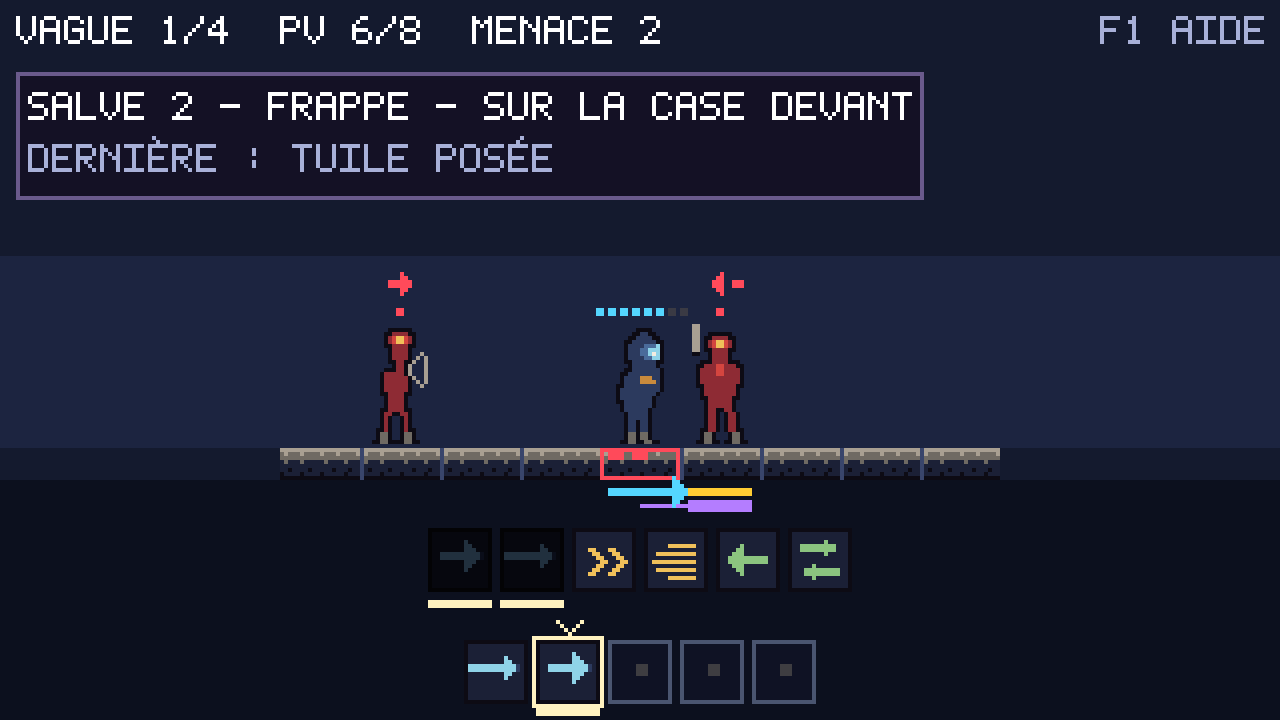
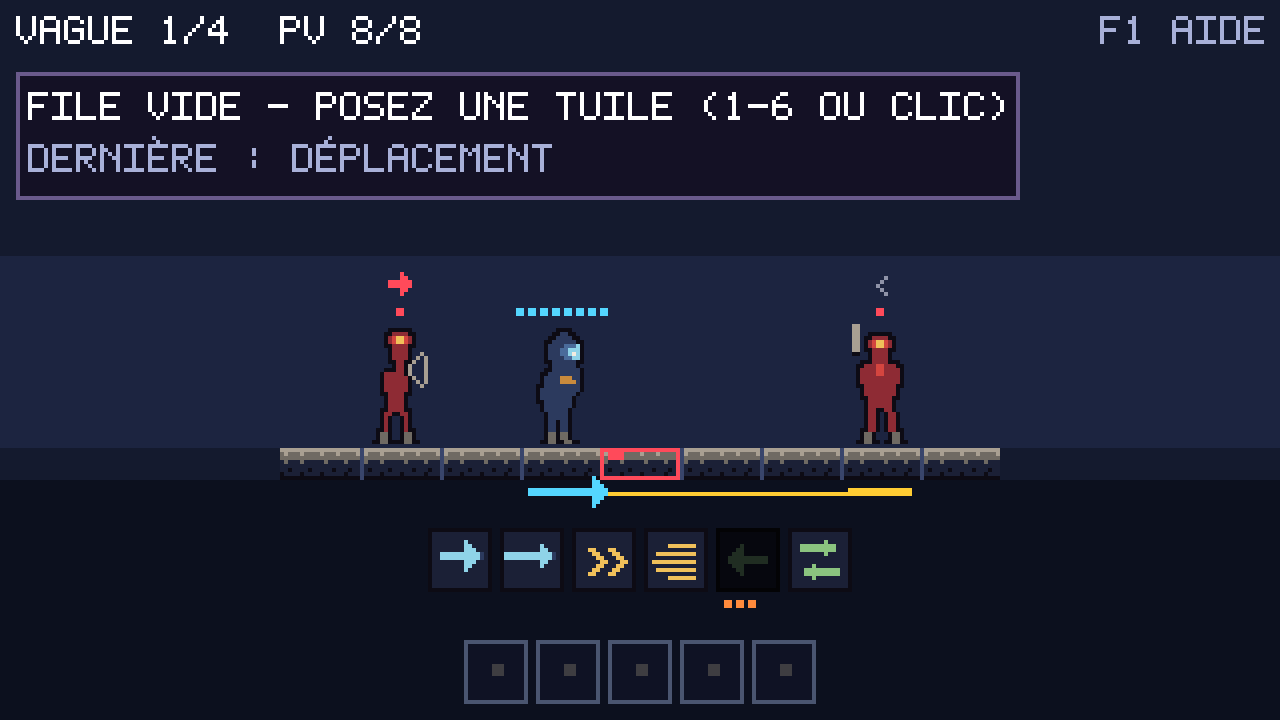
Le scenario de capture est teste, et il etait faux
Il vivait dans ArenaScene, donc derriere un contexte graphique, donc hors de
portee de tout test. Il a regresse exactement la : au jalon d'equilibrage, le
scenario ecrit pour l'ancienne economie s'est mis a mourir en vague 1 au tour
7, sans qu'une seule tuile ne se pose a cote d'une autre. Douze images
livrees pour un jalon intitule "la file a enfin une economie", ou l'on ne
voyait jamais de salve. Aucune assertion n'a bronche, parce qu'il n'y en
avait aucune.

Le scenario ne touche qu'a l'Arena : rien n'obligeait a le garder derriere
GL. Il est dans CaptureScript, et cinq assertions verifient qu'il montre ce
qu'il pretend montrer - il charge, il lache une salve pour un tour, il fait
basculer une vague, il ne meurt pas, et le survol scenarise couvre toutes les
images.

Elles ont refuse DEUX versions avant celle qui passe :
- celle que je venais d'ecrire mourait encore en vague 1 au tour 9 ;
- celle d'apres chargeait trois tuiles en vague 2 et finissait a 1 PV sur 8.

La ligne retenue vient de la recherche du garde-fou de jouabilite, pas de ma
main : elle franchit la premiere vague a pleine sante en quatre tours.

Le seuil "la file monte a au moins N" est fixe a DEUX, et c'est un releve et
non un objectif : la troisieme tuile coute quatre points de vie de plus. Meme
mesure que la review - aucune ligne gagnante ne remplit jamais la file. La
question reste ouverte au tableau de bord.

432 tests verts.

diff --git a/progress.html b/progress.html
@@ -238,8 +238,9 @@
 <h2>Planches-contact</h2>
 
 <figure class="sheet">
-  <img src="captures/m10/starfall-1280x720-frame03.png" alt="Starfall M10, une salve de trois chargee">
-  <figcaption><b>M10 &mdash; une salve de trois charg&eacute;e, et son prix.</b> Trois tuiles dans la file, trois tours d&eacute;pens&eacute;s &agrave; les poser &mdash; et <code>PV 4/8</code> : la moiti&eacute; de la barre de vie y est pass&eacute;e, pendant que le sabreur arrivait au contact. C&rsquo;est toute la tension de la nouvelle &eacute;conomie en une image. La premi&egrave;re planche livr&eacute;e ne montrait rien de tout cela : douze images o&ugrave; la file ne d&eacute;passait jamais une tuile et o&ugrave; la Vagabonde mourait au tour 7, pour un jalon intitul&eacute; « la file a enfin une &eacute;conomie ». La ligne d&rsquo;annonce dit <code>SALVE 3</code> et d&eacute;crit la <i>premi&egrave;re</i> tuile seulement &mdash; ce que la deuxi&egrave;me trouvera devant elle d&eacute;pend de ce que la premi&egrave;re aura fait, et deviner est ce que ce projet interdit depuis M6.</figcaption>
+  <img src="captures/m10/starfall-1280x720-frame10.png" alt="Starfall M10, une salve de trois chargee">
+  <figcaption><b>M10 &mdash; la nouvelle &eacute;conomie, en une image.</b> <code>VAGUE 2/4</code> : la premi&egrave;re est tomb&eacute;e. <code>PV 4/8</code> : la moiti&eacute; de la barre y est pass&eacute;e, pendant le chargement. <code>MENACE 3</code> : trois coups tomberont sur la case du h&eacute;ros au prochain tour. Et dans la file, une <code>SALVE 2</code> pr&ecirc;te &agrave; partir pour un seul tour.
+  <br><br>La planche pr&eacute;c&eacute;dente ne montrait rien de tout cela : douze images o&ugrave; la file ne d&eacute;passait jamais une tuile et o&ugrave; la Vagabonde mourait au tour 7, pour un jalon intitul&eacute; « la file a enfin une &eacute;conomie ». Le sc&eacute;nario de capture a donc quitt&eacute; la sc&egrave;ne &mdash; il ne touchait qu&rsquo;&agrave; l&rsquo;ar&egrave;ne, rien ne l&rsquo;obligeait &agrave; vivre derri&egrave;re un contexte graphique &mdash; et <b>cinq assertions</b> v&eacute;rifient d&eacute;sormais qu&rsquo;il charge, qu&rsquo;il l&acirc;che une salve, qu&rsquo;il fait basculer une vague et qu&rsquo;il ne meurt pas. Elles ont refus&eacute; deux versions avant celle-ci.</figcaption>
 </figure>
 
 <figure class="sheet">

diff --git a/core/src/test/java/com/starfall/scene/CaptureScriptTest.java b/core/src/test/java/com/starfall/scene/CaptureScriptTest.java
@@ -1,0 +1,156 @@
+package com.starfall.scene;
+
+import static org.junit.jupiter.api.Assertions.assertTrue;
+
+import com.starfall.game.Arena;
+import com.starfall.game.ArenaSetup;
+
+import org.junit.jupiter.api.DisplayName;
+import org.junit.jupiter.api.Test;
+
+/**
+ * Les planches-contact doivent montrer ce qu'elles légendent.
+ *
+ * <h2>Pourquoi ce test existe</h2>
+ *
+ * <p>C'est la règle que le projet s'est donnée après le jalon de la résolution du combat, et elle a
+ * été enfreinte deux fois depuis — parce que rien ne la vérifiait.
+ *
+ * <p>La première fois, les légendes portaient encore le texte de deux jalons plus tôt : le commit
+ * n'avait échangé que les chemins d'images. La seconde, plus grave, au jalon d'équilibrage : le
+ * scénario écrit pour l'ancienne économie s'est mis à mourir en vague 1 au tour 7, sans qu'une seule
+ * tuile ne se pose à côté d'une autre. <b>Douze images livrées pour un jalon intitulé « la file a
+ * enfin une économie », où l'on ne voyait jamais de salve.</b> Aucune assertion n'a bronché, parce
+ * qu'il n'y en avait aucune.
+ *
+ * <p>Ce test ne juge pas de l'esthétique — il vérifie que le scénario <b>atteint les états qu'il
+ * prétend montrer</b>. Il n'a besoin d'aucun contexte graphique : le scénario ne touche qu'à
+ * l'arène, ce qui est précisément la raison pour laquelle il a pu quitter la scène.
+ */
+class CaptureScriptTest {
+
+    /** La largeur par défaut du mode capture, celle des planches livrées. */
+    private static final int GRID = 9;
+
+    private static Arena after(int actions) {
+        Arena arena = ArenaSetup.trainingArena(GRID);
+        CaptureScript.replayInto(arena, actions);
+        return arena;
+    }
+
+    /**
+     * Le scénario doit <b>charger</b> : une file qui ne dépasse jamais une tuile ne montre rien de
+     * l'économie du jeu.
+     *
+     * <h2>Pourquoi le seuil est à deux et non à cinq</h2>
+     *
+     * <p>Il devrait être à cinq — c'est la capacité de la file, et le jalon d'équilibrage s'appelle
+     * « file de 5 ». Il est à deux parce que c'est ce que le jeu <b>permet</b> aujourd'hui, et le
+     * constater ici vaut mieux que l'espérer : la version à trois tuiles de ce scénario finissait à
+     * <b>un point de vie sur huit</b>, et l'assertion de survie l'a refusée.
+     *
+     * <p>C'est la même mesure que la review du jalon a faite de son côté : sur douze configurations,
+     * six meurent avant la quatrième tuile, et aucune ligne gagnante ne remplit jamais la file. Le
+     * seuil de ce test est donc un <b>relevé</b>, pas un objectif. Il est consigné comme question
+     * ouverte au tableau de bord — rendre le chargement survivable est une décision de game design,
+     * et le jour où elle sera prise, ce nombre devra monter.
+     */
+    @Test
+    @DisplayName("Le scénario charge une file de plusieurs tuiles")
+    void theScriptLoadsAQueueOfSeveralTiles() {
+        int deepest = 0;
+        for (int step = 0; step <= CaptureScript.ACTIONS.size(); step++) {
+            deepest = Math.max(deepest, after(step).queue().size());
+        }
+
+        assertTrue(deepest >= 2,
+                "la file du scenario ne depasse jamais " + deepest + " tuile(s) : les planches ne"
+                        + " montreraient pas ce que la file apporte");
+    }
+
+    /**
+     * Et il doit <b>lâcher</b> : une salve de plusieurs tuiles pour un seul tour est la promesse
+     * centrale du jeu, et c'est ce que les planches doivent donner à voir.
+     */
+    @Test
+    @DisplayName("Le scénario lance une salve de plusieurs tuiles pour un seul tour")
+    void theScriptFiresAMultiTileVolley() {
+        boolean found = false;
+        for (int step = 0; step < CaptureScript.ACTIONS.size(); step++) {
+            Arena before = after(step);
+            int queued = before.queue().size();
+            int turns = before.turnsTaken();
+            if (queued < 2) {
+                continue;
+            }
+            Arena andAfter = after(step + 1);
+            if (andAfter.queue().isEmpty() && andAfter.turnsTaken() <= turns + 1) {
+                found = true;
+                break;
+            }
+        }
+
+        assertTrue(found, "aucune salve de plusieurs tuiles dans le scenario : les planches ne"
+                + " montreraient pas le decalage qui fait tout le jeu");
+    }
+
+    /**
+     * Le scénario ne doit pas se terminer par une défaite.
+     *
+     * <p>C'est exactement ce qui s'est produit au jalon d'équilibrage : les dernières images
+     * affichaient <code>PARTIE PERDUE</code> et <code>VAGUE 1/4</code>. Ce n'est pas qu'une question
+     * de fierté — une planche qui montre une défaite précoce dit au relecteur que le jeu est
+     * injouable, ce qui était faux.
+     */
+    @Test
+    @DisplayName("Le scénario ne meurt pas avant la fin")
+    void theScriptDoesNotDieBeforeTheEnd() {
+        Arena finished = after(CaptureScript.ACTIONS.size());
+
+        assertTrue(!finished.isDefeat(),
+                "le scenario de capture meurt au tour " + finished.turnsTaken()
+                        + " en vague " + finished.wave()
+                        + " : les planches livrees montreraient une defaite");
+        assertTrue(finished.hero().health() >= 2,
+                "le scenario finit a " + finished.hero().health() + " point(s) de vie : trop juste"
+                        + " pour que les planches montrent un jeu qui se joue");
+    }
+
+    /**
+     * Et il doit faire basculer une vague : c'est la seule façon de montrer sur une planche que le
+     * combat progresse plutôt que de tourner en rond.
+     */
+    @Test
+    @DisplayName("Le scénario fait basculer au moins une vague")
+    void theScriptFlipsAtLeastOneWave() {
+        Arena finished = after(CaptureScript.ACTIONS.size());
+
+        assertTrue(finished.wave() >= 2,
+                "le scenario reste en vague " + finished.wave()
+                        + " : aucune planche ne montrerait l'enchainement des vagues");
+    }
+
+    /**
+     * Les tableaux de survol doivent couvrir toutes les images qu'on capture, sinon les dernières
+     * planches perdent silencieusement leurs infobulles et leurs repères de portée.
+     */
+    @Test
+    @DisplayName("Le survol scénarisé couvre tout le scénario")
+    void theScriptedHoverCoversTheWholeScript() {
+        int frames = CaptureScript.ACTIONS.size() + 1;
+
+        assertTrue(CaptureScript.HOVERED_RACK_SLOT.length >= frames - 1,
+                "le survol du ratelier s'arrete a l'image "
+                        + CaptureScript.HOVERED_RACK_SLOT.length + " pour " + frames + " images");
+        assertTrue(CaptureScript.HOVERED_CELL.length >= frames,
+                "le survol des cases s'arrete a l'image "
+                        + CaptureScript.HOVERED_CELL.length + " pour " + frames + " images");
+
+        for (int slot : CaptureScript.HOVERED_RACK_SLOT) {
+            assertTrue(slot >= -1 && slot < 6, "emplacement de ratelier hors bornes : " + slot);
+        }
+        for (int cell : CaptureScript.HOVERED_CELL) {
+            assertTrue(cell >= -1 && cell < GRID, "case survolee hors grille : " + cell);
+        }
+    }
+}

diff --git a/core/src/main/java/com/starfall/scene/CaptureScript.java b/core/src/main/java/com/starfall/scene/CaptureScript.java
@@ -1,0 +1,116 @@
+package com.starfall.scene;
+
+import com.starfall.game.ActionResult;
+import com.starfall.game.Arena;
+import com.starfall.game.Direction;
+import com.starfall.game.Tile;
+
+import java.util.List;
+import java.util.function.Function;
+
+/**
+ * La partie que joue le mode capture, une action par image.
+ *
+ * <h2>Pourquoi elle a quitté la scène</h2>
+ *
+ * <p>Les entrées sont coupées en capture : sans scénario, les images d'une série seraient toutes
+ * identiques. Rejouer une courte partie les rend différentes <em>et</em> utiles — les planches
+ * montrent le jeu à l'œuvre au lieu de trois copies de la position de départ.
+ *
+ * <p>Elle vivait dans {@code ArenaScene}, donc derrière un contexte graphique, donc hors de portée
+ * de tout test. Et elle a régressé exactement là : au jalon d'équilibrage, le scénario écrit pour
+ * l'ancienne économie s'est mis à mourir en vague 1 au tour 7, sans qu'une seule tuile ne se pose à
+ * côté d'une autre. Douze images livrées pour un jalon intitulé « la file a enfin une économie », où
+ * l'on ne voyait jamais de salve. <b>Aucune assertion n'a bronché</b>, parce qu'il n'y en avait
+ * aucune à broncher.
+ *
+ * <p>Le scénario ne touche qu'à l'{@link Arena} : rien n'obligeait à le garder derrière GL. Il est
+ * donc ici, et {@code CaptureScriptTest} vérifie qu'il montre encore ce qu'il prétend montrer.
+ */
+public final class CaptureScript {
+
+    private CaptureScript() {
+    }
+
+    /**
+     * Les gestes joués, dans l'ordre.
+     *
+     * <p>Ce qu'ils doivent montrer, et ce que le test vérifie : une file <b>chargée sous le feu</b>
+     * — chaque pose coûte un tour et les ennemis se rapprochent pendant ce temps — puis une
+     * <b>salve</b> qui fait tomber plusieurs effets d'un coup, puis une <b>vague qui bascule</b>.
+     * C'est toute l'économie du jeu en onze gestes.
+     */
+    public static final List<Function<Arena, ActionResult>> ACTIONS = List.of(
+            // Une ouverture qui tient : elle franchit la première vague à pleine santé en quatre
+            // tours. Elle a été trouvée par la recherche du garde-fou de jouabilité, pas écrite à
+            // la main — la version manuelle mourait au tour 9 sans avoir fait basculer une vague,
+            // et c'est le test de ce fichier qui l'a dit.
+            a -> a.queueTile(Tile.SIDESTEP),  // Free-Play : se charge sans rien coûter
+            a -> a.unleash(),                 // salve entièrement Free-Play : gratuite aussi
+            a -> a.queueTile(Tile.THRUST),    // le premier tour dépensé, et le premier encaissé
+            a -> a.queueTile(Tile.PIVOT),
+            a -> a.unleash(),                 // deux effets, un seul tour
+            a -> a.queueTile(Tile.STRIKE),
+            a -> a.queueTile(Tile.PIVOT),
+            a -> a.unleash(),                 // la vague bascule quand le terrain se vide
+            // Puis on charge sous le feu de la vague suivante, et on lâche : c'est l'image que le
+            // jalon d'équilibrage devait montrer et ne montrait pas. Deux tuiles et pas trois —
+            // la troisième coûtait quatre points de vie de plus, et le test de ce fichier a refusé
+            // une planche qui finissait à un point de vie sur huit.
+            a -> a.queueTile(Tile.THRUST),
+            a -> a.queueTile(Tile.PUSH),
+            a -> a.unleash());
+
+    /**
+     * Tuile du râtelier survolée à chaque image, ou {@code -1}.
+     *
+     * <p>L'ordre du râtelier est celui de {@code ArenaSetup} : frappe, estoc, poussée, élan, pas de
+     * côté, volte-face. Le survol est scénarisé parce que sans lui, ni infobulle ni repère de portée
+     * n'apparaîtrait sur <em>aucune</em> planche — et une planche qui ne montre pas ce qu'elle
+     * légende vaut moins que pas de planche.
+     */
+    public static final int[] HOVERED_RACK_SLOT = {
+            -1,  // image 0 : l'aide, telle qu'un joueur la découvre
+            1,   // l'estoc et sa portée 2
+            -1,  // rien de survolé : le préavis résolu du sommet
+            2,   // la poussée
+            3,   // l'élan, dont la portée dépend du terrain
+            -1,
+            4,   // le pas de côté, tuile Free-Play
+            -1,
+            -1,
+            -1,  // le préavis résolu d'une salve
+            5,   // la volte-face, qui ne vise aucune case
+    };
+
+    /**
+     * Case du plateau survolée à chaque image, ou {@code -1}.
+     *
+     * <p>Elle sert à montrer l'infobulle d'ennemi, qui existe pour la raison exacte qui a fait
+     * écrire celles des tuiles : la portée de l'archer et celle du trait agressif n'étaient écrites
+     * nulle part, et on les apprenait en prenant des coups.
+     */
+    public static final int[] HOVERED_CELL = {
+            -1, -1, -1, -1, -1, 2, -1, -1, -1, -1, -1, -1,
+    };
+
+    /** Rejoue les {@code count} premiers gestes sur une arène. */
+    public static ActionResult replayInto(Arena arena, int count) {
+        ActionResult last = null;
+        for (int i = 0; i < count && i < ACTIONS.size(); i++) {
+            last = ACTIONS.get(i).apply(arena);
+        }
+        return last;
+    }
+
+    /** Tuile survolée à cette image, ou {@code -1}. */
+    public static int rackSlotAt(int frameIndex) {
+        return frameIndex >= 0 && frameIndex < HOVERED_RACK_SLOT.length
+                ? HOVERED_RACK_SLOT[frameIndex] : -1;
+    }
+
+    /** Case survolée à cette image, ou {@code -1}. */
+    public static int cellAt(int frameIndex) {
+        return frameIndex >= 0 && frameIndex < HOVERED_CELL.length ? HOVERED_CELL[frameIndex] : -1;
+    }
+}

diff --git a/core/src/main/java/com/starfall/scene/ArenaScene.java b/core/src/main/java/com/starfall/scene/ArenaScene.java
@@ -155,9 +155,9 @@ public final class ArenaScene implements Scene {
      * contact, et une planche qui ne montre pas ce qu'elle légende vaut moins que pas de planche.
      */
     private void replayScript(int frameIndex) {
-        hoveredCell = frameIndex < HOVER_CELL_SCRIPT.length ? HOVER_CELL_SCRIPT[frameIndex] : -1;
+        hoveredCell = CaptureScript.cellAt(frameIndex);
         hoveredQueueSlot = -1;
-        hoveredRackSlot = frameIndex < HOVER_SCRIPT.length ? HOVER_SCRIPT[frameIndex] : -1;
+        hoveredRackSlot = CaptureScript.rackSlotAt(frameIndex);
         helpVisible = frameIndex == 0;
 
         if (frameIndex == scriptedFrame) {
@@ -165,77 +165,19 @@ public final class ArenaScene implements Scene {
         }
         arena = ArenaSetup.trainingArena(layout.gridWidth(), context.options().startWave);
 
-        for (int i = 0; i < frameIndex && i < SCRIPT.length; i++) {
-            lastResult = SCRIPT[i].applyTo(arena);
+        ActionResult replayed = CaptureScript.replayInto(arena, frameIndex);
+        if (replayed != null) {
+            lastResult = replayed;
         }
-        if (frameIndex > SCRIPT.length && !exhaustionReported) {
+        if (frameIndex > CaptureScript.ACTIONS.size() && !exhaustionReported) {
             // Le dire plutôt que de laisser un relecteur croire que deux images identiques
             // signalent un rendu figé.
-            System.out.println("[Starfall] le scénario de capture compte " + SCRIPT.length
+            System.out.println("[Starfall] le scénario de capture compte " + CaptureScript.ACTIONS.size()
                     + " actions ; les images suivantes répètent l'état final");
             exhaustionReported = true;
         }
         scriptedFrame = frameIndex;
     }
-
-    /** Une action du scénario de capture. */
-    private interface ScriptedAction {
-        ActionResult applyTo(Arena arena);
-    }
-
-    /**
-     * Le scénario montre la file d'actions et les portées : on charge, on regarde la file se
-     * remplir, puis on la dépile — et l'on voit qu'elle se vide à l'envers de l'ordre où on l'a
-     * remplie, la ligne d'annonce disant à chaque étape ce qui partira.
-     */
-    private static final ScriptedAction[] SCRIPT = {
-            // On charge sous le feu : chaque pose coûte un tour, et les ennemis se rapprochent
-            // pendant ce temps. C'est toute la tension de la nouvelle économie, et il fallait que
-            // les planches la montrent — les précédentes mouraient en vague 1 sans qu'aucune file
-            // ne dépasse une tuile.
-            a -> a.queueTile(Tile.THRUST),
-            a -> a.queueTile(Tile.STRIKE),
-            a -> a.queueTile(Tile.PUSH),
-            a -> a.unleash(),                // la salve : trois effets pour un seul tour
-            a -> a.step(Direction.LEFT),     // demi-tour vers ce qui reste
-            a -> a.queueTile(Tile.DASH),
-            a -> a.unleash(),
-            a -> a.queueTile(Tile.STRIKE),
-            a -> a.unleash(),                // et la vague bascule quand le terrain se vide
-            a -> a.queueTile(Tile.THRUST),
-            a -> a.queueTile(Tile.PUSH),
-    };
-
-    /**
-     * Tuile du râtelier survolée à chaque image de la capture, ou {@code -1}.
-     *
-     * <p>L'ordre du râtelier est celui de {@code ArenaSetup} : frappe, estoc, poussée, élan, pas de
-     * côté, volte-face.
-     */
-    private static final int[] HOVER_SCRIPT = {
-            -1,  // image 0 : l'aide, telle qu'un joueur la découvre
-            1,   // l'estoc et sa portée 2
-            -1,  // rien de survolé : le préavis résolu du sommet, et il annonce un coup dans le vide
-            2,   // la poussée
-            3,   // l'élan, dont la portée dépend du terrain
-            -1,
-            4,   // le pas de côté, tuile Free-Play
-            -1,
-            -1,
-            -1,  // le préavis résolu d'une poussée : sa trajectoire et son arrivée
-            5,   // la volte-face, qui ne vise aucune case
-    };
-
-    /**
-     * Case du plateau survolée à chaque image, ou {@code -1}.
-     *
-     * <p>Elle sert à montrer l'infobulle d'ennemi, qui existe pour la raison exacte qui a fait
-     * écrire celles des tuiles : la portée de l'archer et celle du trait agressif n'étaient
-     * écrites nulle part, et on les apprenait en prenant des coups.
-     */
-    private static final int[] HOVER_CELL_SCRIPT = {
-            -1, -1, -1, -1, -1, 2, -1, -1, -1, -1, -1, -1,
-    };
 
     private int scriptedFrame = -1;
     private boolean exhaustionReported;
